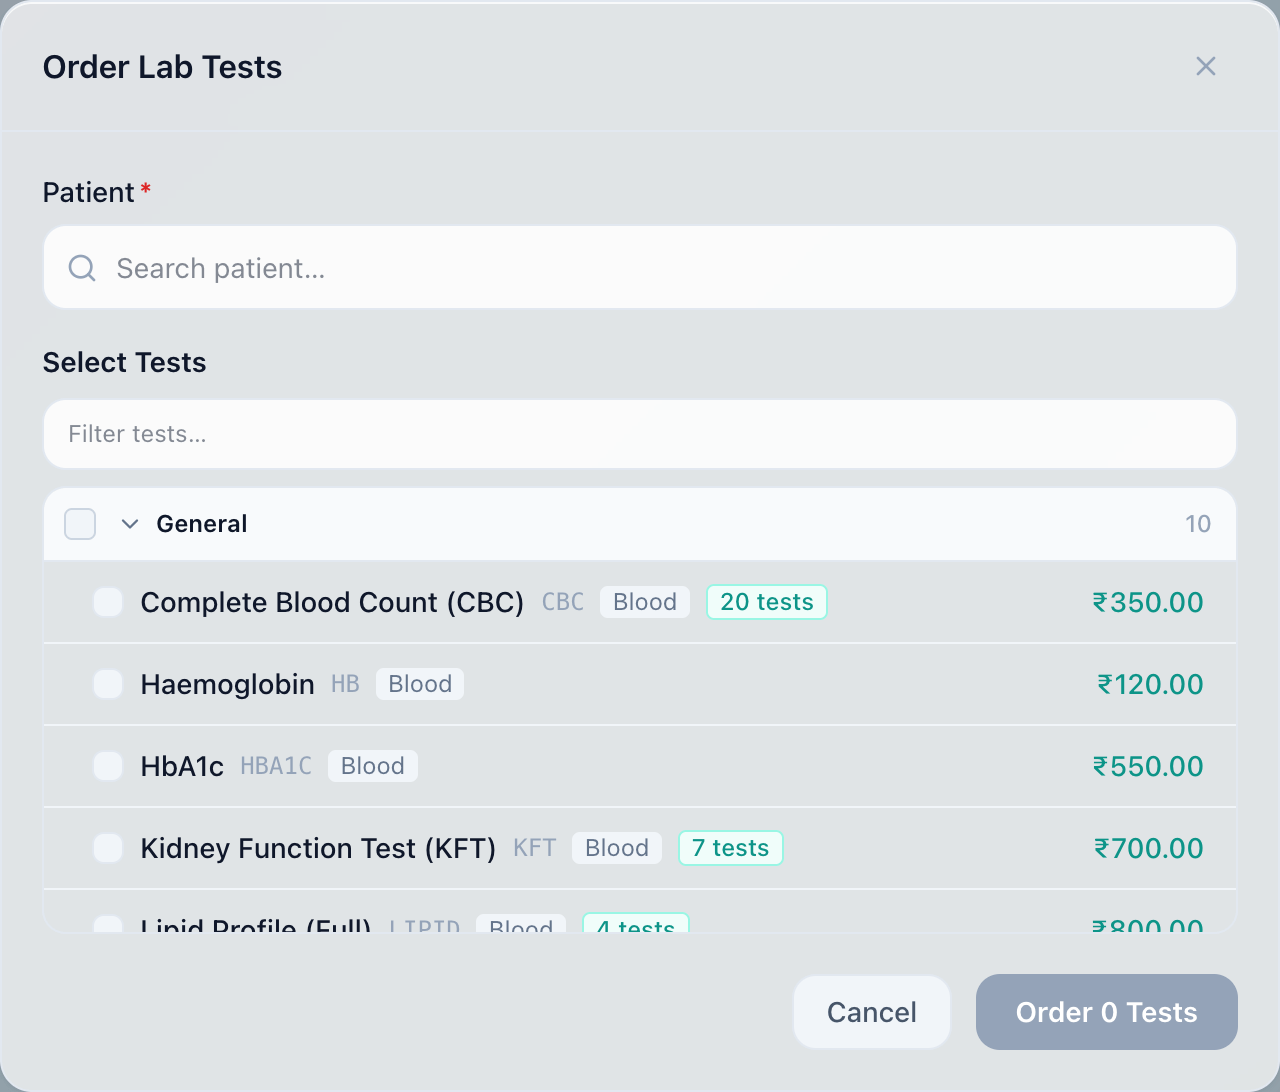
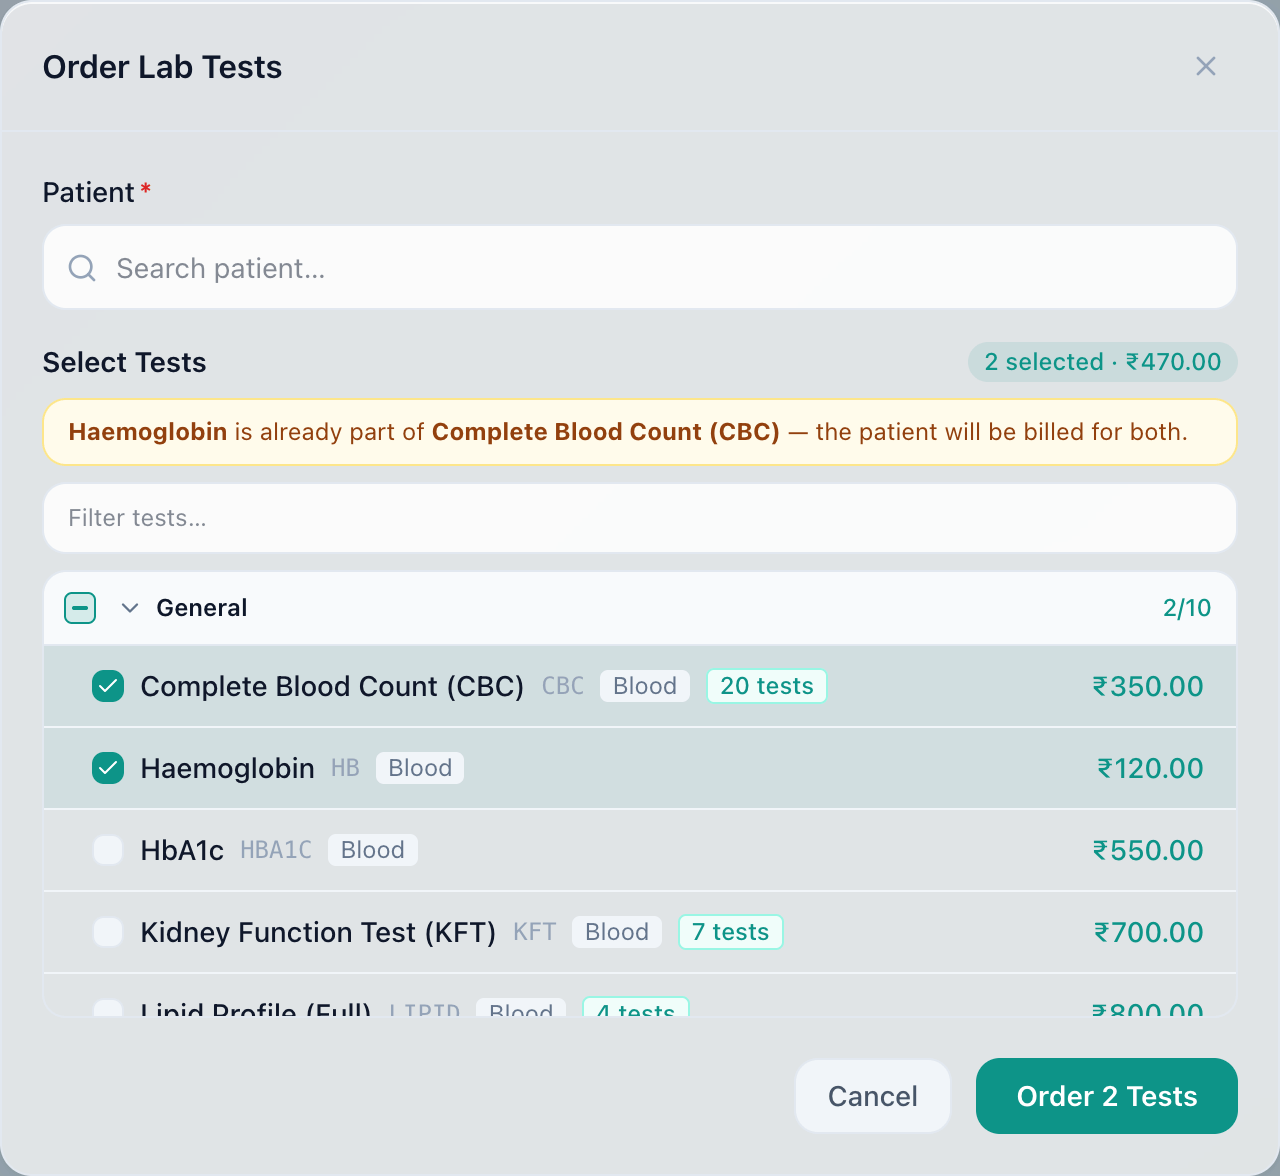
fix(lab): three things the catalogue screen got wrong
**The displayed range contradicted the report.** A catalogue row still printed
the single range typed when the test was created — Haemoglobin 13-17 — while
results are now judged against the analyte range, 9.9-14.3 for a woman. Same
for random blood sugar (showed 70-140, uses <200) and HbA1c. A test with
analytes now shows how many measurements it yields instead; the old single
range stays only for tests that have none, where it is still the truth.

**Category names were unreadable on a phone.** In Add from Master the group
price box and Activate All are flex-shrink-0, so on a narrow screen they
squeezed every category down to "A." — fourteen tests under "A.", twenty-one
under "A.". The header stacks below the small breakpoint now, and in My Catalog
the test name wraps rather than truncating "Complete Blood Count" to
"Complete Blo…".

**Ordering a test already inside a panel was silent.** A CBC reports
haemoglobin, so ticking both bills the patient twice for the same measurement
and gives the laboratory two ways to disagree with itself. The order screen now
says so — "Haemoglobin is already part of Complete Blood Count (CBC) — the
patient will be billed for both" — computed from actual analyte membership
rather than name matching.

A warning, not a block. There are real reasons to repeat a measurement by a
different method, and the doctor is the one who knows which.

diff --git a/src/app/(dashboard)/lab/_components/AddLabTestModal.tsx b/src/app/(dashboard)/lab/_components/AddLabTestModal.tsx
@@ -311,11 +311,14 @@ export default function AddLabTestModal({ open, onClose }: Props) {
                       <div>
                         {group.map(t => (
                           <Fragment key={t.id}>
-                            <div className="flex items-center gap-3 px-3 py-2.5"
+                            {/* The price, status and edit control are all flex-shrink-0,
+                                so on a phone they crushed the name to "Complete Blo…".
+                                Letting the name wrap costs a line and reads. */}
+                            <div className="flex items-start gap-3 px-3 py-2.5"
                               style={{ borderBottom: '1px solid #F8FAFC', background: t.is_active ? '#fff' : '#FAFAFA' }}>
                               <div className="flex-1 min-w-0">
-                                <div className="flex items-center gap-1.5">
-                                  <span className="text-sm font-medium truncate" style={{ color: t.is_active ? '#0F172A' : '#94A3B8' }}>
+                                <div className="flex items-start gap-1.5 flex-wrap">
+                                  <span className="text-sm font-medium" style={{ color: t.is_active ? '#0F172A' : '#94A3B8' }}>
                                     {t.name}
                                   </span>
                                   {t.lab_master_id && (
@@ -326,9 +329,17 @@ export default function AddLabTestModal({ open, onClose }: Props) {
                                 <div className="flex items-center gap-3 mt-0.5 text-xs" style={{ color: '#94A3B8' }}>
                                   {t.code && <span className="font-mono">{t.code}</span>}
                                   {t.sample_type && <span className="capitalize">{t.sample_type}</span>}
-                                  {(t.reference_range ?? (t.ref_low != null || t.ref_high != null)) && (
+                                  {/* A test with analytes carries a range per measurement, and
+                                      several of them vary by sex and age. The single range on the
+                                      catalogue row is the old one and no longer what results are
+                                      judged against, so showing it would contradict the report. */}
+                                  {(t.analyte_count ?? 0) > 0 ? (
+                                    <span style={{ color: '#0D9488' }}>
+                                      {t.analyte_count} measurement{t.analyte_count === 1 ? '' : 's'}
+                                    </span>
+                                  ) : (t.reference_range ?? (t.ref_low != null || t.ref_high != null)) ? (
                                     <span>{t.reference_range ?? `${t.ref_low ?? '?'} – ${t.ref_high ?? '?'}`}</span>
-                                  )}
+                                  ) : null}
                                 </div>
                               </div>
                               <span className="text-sm font-semibold flex-shrink-0" style={{ color: '#0D9488' }}>
@@ -400,9 +411,12 @@ export default function AddLabTestModal({ open, onClose }: Props) {
                 return (
                   <div key={cat} className="rounded-xl overflow-hidden" style={{ border: '1px solid #E2E8F0' }}>
                     {/* Group header */}
-                    <div className="flex items-center gap-2 px-3 py-2.5"
+                    {/* Stacked on a phone. Side by side the price box and Activate All
+                        are flex-shrink-0, so they squeezed the category name down to
+                        "A." — every group looked identical on a narrow screen. */}
+                    <div className="flex flex-col sm:flex-row sm:items-center gap-2 px-3 py-2.5"
                       style={{ background: '#F8FAFC', borderBottom: expanded ? '1px solid #E2E8F0' : 'none' }}>
-                      <button onClick={() => toggleMasterGroup(cat)} className="flex items-center gap-2 flex-1 min-w-0 text-left">
+                      <button onClick={() => toggleMasterGroup(cat)} className="flex items-center gap-2 w-full sm:flex-1 min-w-0 text-left">
                         {expanded ? <ChevronDown className="w-4 h-4 flex-shrink-0" style={{ color: '#64748B' }} />
                           : <ChevronRight className="w-4 h-4 flex-shrink-0" style={{ color: '#64748B' }} />}
                         <span className="text-sm font-semibold truncate" style={{ color: '#0F172A' }}>{cat}</span>
@@ -413,13 +427,13 @@ export default function AddLabTestModal({ open, onClose }: Props) {
                       </button>
 
                       {/* Group price + Activate All */}
-                      <div className="flex items-center gap-2 flex-shrink-0">
-                        <div>
+                      <div className="flex items-center gap-2 w-full sm:w-auto sm:flex-shrink-0">
+                        <div className="flex-1 sm:flex-none">
                           <input type="number" min={0} step="0.01"
                             value={groupPrices[cat] ?? ''}
                             onChange={e => setGroupPrices(prev => ({ ...prev, [cat]: e.target.value }))}
                             placeholder="Group ₹"
-                            className="w-24 px-2 py-1.5 rounded-lg text-xs border font-semibold"
+                            className="w-full sm:w-24 px-2 py-1.5 rounded-lg text-xs border font-semibold"
                             style={{ borderColor: masterErrors[`group_${cat}`] ? '#DC2626' : '#0D9488', color: '#0D9488', background: '#fff' }} />
                           {masterErrors[`group_${cat}`] && (
                             <p className="text-xs mt-0.5" style={{ color: '#DC2626' }}>{masterErrors[`group_${cat}`]}</p>

diff --git a/src/app/(dashboard)/lab/_components/OrderLabModal.tsx b/src/app/(dashboard)/lab/_components/OrderLabModal.tsx
@@ -66,6 +66,31 @@ export default function OrderLabModal({ open, onClose, onSuccess, catalog, prefi
 
   const total = catalog.filter((t) => selected.has(t.id)).reduce((s, t) => s + t.price, 0)
 
+  /**
+   * Tests that are already inside another selected test.
+   *
+   * A CBC reports haemoglobin, so ticking both CBC and Haemoglobin bills the
+   * patient for the same measurement twice and gives the lab two ways to
+   * disagree with itself. Real laboratories catch this at ordering; we did not,
+   * so a doctor ticking the obvious pair was quietly overcharging.
+   *
+   * A warning, not a block — there are real reasons to repeat a measurement by
+   * a different method, and the doctor is the one who knows.
+   */
+  const redundant = (() => {
+    const picked = catalog.filter((t) => selected.has(t.id) && (t.analyte_ids?.length ?? 0) > 0)
+    const out: Array<{ test: LabTestCatalog; insideOf: string }> = []
+    for (const a of picked) {
+      const mine = new Set(a.analyte_ids ?? [])
+      const cover = picked.find((b) =>
+        b.id !== a.id
+        && (b.analyte_ids?.length ?? 0) > mine.size
+        && [...mine].every((x) => b.analyte_ids?.includes(x)))
+      if (cover) out.push({ test: a, insideOf: cover.name })
+    }
+    return out
+  })()
+
   function toggleTest(id: string) {
     setSelected((prev) => {
       const next = new Set(prev)
@@ -157,6 +182,17 @@ export default function OrderLabModal({ open, onClose, onSuccess, catalog, prefi
               </span>
             )}
           </div>
+          {redundant.length > 0 && (
+            <div className="mb-2 rounded-xl px-3 py-2 text-xs"
+              style={{ background: '#FFFBEB', color: '#92400E', border: '1px solid #FDE68A' }}>
+              {redundant.map(({ test, insideOf }) => (
+                <p key={test.id}>
+                  <strong>{test.name}</strong> is already part of <strong>{insideOf}</strong> — the patient
+                  will be billed for both.
+                </p>
+              ))}
+            </div>
+          )}
           <input type="search" value={testSearch}
             onChange={(e) => setTestSearch(e.target.value)}
             placeholder="Filter tests…"

diff --git a/src/app/actions/lab.ts b/src/app/actions/lab.ts
@@ -86,16 +86,16 @@ async function withAnalyteCounts(
   const masterIds = [...new Set(tests.map((t) => t.lab_master_id).filter(Boolean))] as string[]
   if (!masterIds.length) return tests
   const { data } = await supabase
-    .from('lab_test_analytes').select('lab_master_id').in('lab_master_id', masterIds)
-  const counts = new Map<string, number>()
+    .from('lab_test_analytes').select('lab_master_id, analyte_id').in('lab_master_id', masterIds)
+  const byMaster = new Map<string, string[]>()
   for (const r of data ?? []) {
     const k = r.lab_master_id as string
-    counts.set(k, (counts.get(k) ?? 0) + 1)
+    byMaster.set(k, [...(byMaster.get(k) ?? []), r.analyte_id as string])
   }
-  return tests.map((t) => ({
-    ...t,
-    analyte_count: t.lab_master_id ? counts.get(t.lab_master_id) ?? 0 : 0,
-  }))
+  return tests.map((t) => {
+    const ids = t.lab_master_id ? byMaster.get(t.lab_master_id) ?? [] : []
+    return { ...t, analyte_count: ids.length, analyte_ids: ids }
+  })
 }
 
 export async function listLabCatalog(): Promise<LabTestCatalog[]> {
@@ -109,7 +109,7 @@ export async function listAllLabCatalog(): Promise<LabTestCatalog[]> {
   const supabase = await createClient()
   const { data } = await supabase
     .from('lab_tests_catalog').select('*').order('name')
-  return (data ?? []) as LabTestCatalog[]
+  return withAnalyteCounts(supabase, (data ?? []) as LabTestCatalog[])
 }
 
 export async function updateLabTest(

diff --git a/scripts/guide-shots.ts b/scripts/guide-shots.ts
@@ -278,7 +278,11 @@ export const SHOTS: Shot[] = [
   {
     name: 'lab-order-panels',
     path: '/lab',
-    steps: [{ clickText: 'New Order' }, { wait: 2000 }],
+    steps: [
+      { clickText: 'New Order' }, { wait: 2000 },
+      { clickText: 'Complete Blood Count' }, { wait: 400 },
+      { clickText: 'Haemoglobin' }, { wait: 800 },
+    ],
     selector: 'div.glass-card.flex.flex-col', wait: 3000, width: 1100, height: 1300,
   },
   { name: 'lab-orders',    path: '/lab', selector: 'main', wait: 2500 },

diff --git a/src/lib/types/index.ts b/src/lib/types/index.ts
@@ -330,6 +330,8 @@ export interface LabTestMaster {
 export interface LabTestCatalog {
   /** How many measurements this test yields. >1 means a panel. Computed, not stored. */
   analyte_count?: number
+  /** Which measurements, so the ordering screen can spot a test already inside a panel. */
+  analyte_ids?: string[]
   id: string; name: string; code: string | null; category: string
   sample_type: string | null; unit: string | null
   ref_low: number | null; ref_high: number | null
